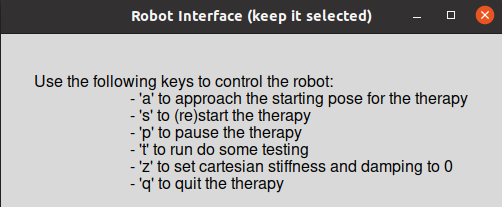
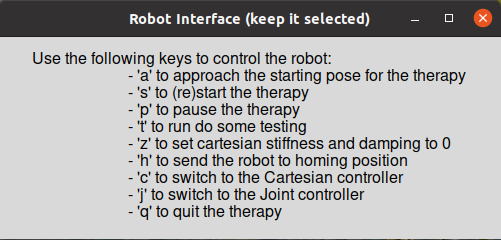
update docs
Still not migrating to ROS package.

diff --git a/scripts/experiment_parameters.py b/scripts/experiment_parameters.py
@@ -11,7 +11,7 @@ from scipy.spatial.transform import Rotation as R
 
 #-------------------------------------------------------------------------
 # choose which experiment to perform
-experiment = 2      # 1: Passive human subject (strain map is only position-dependent)
+experiment = 1      # 1: Passive human subject (strain map is only position-dependent)
                     # 2: Active human subject (strain maps change with muscle activation)
                     # 3: tuning of the cost function weights, in simulation, for experiment #1
                     # 4: execution of A* planning in the same conditions as experiment 3

diff --git a/README.md b/README.md
@@ -40,24 +40,31 @@ Our approach is presented in detail in:
 
 ## Features
 When rehabilitating from rotator cuff tears, physiotherapy aims at gaining a large range of motion while avoiding injuries to the healing tendon(s). A robot that interacts with patients at this stage needs to have insights into the inner functioning of the human tissues. Our innovation consists in considering a [state-of-the-art biomechanical model of the human shoulder](https://simtk.org/projects/scapulothoracic) to extract:
+- _muscle activations_ during physical human-robot interaction (through a model-based [rapid muscle redundancy solver](https://journals.plos.org/plosone/article?id=10.1371/journal.pone.0295003));
 - _strain maps_, which give insights into how tendons are elongated during the rehabilitation movement (as a consequence of the position of the patient, and of the activation in the corresponding muscles);
 - _skeletal dynamics_, capturing the way in which the human position evolves as a function of torques applied to the human model.
 
-These two elements are combined in an optimal control problem that can be solved efficiently in 0.12 s over a time horizon of 1 s divided into 10 steps.
+These elements are combined in an optimal control problem that can be solved efficiently in 0.12 s over a time horizon of 1 s divided into 10 steps.
 
-We exploit a customized version of OpenSimAD that allows us to retrieve a differentiable expression for the dynamics of the original OpenSim model, and can be natively interfaced with CasADi.
+To efficiently consider human skeletal dynamics, we exploit a [customized version](https://github.com/itbellix/opensimAD) of [OpenSimAD](https://github.com/antoinefalisse/opensimAD) that allows us to retrieve a differentiable expression for the dynamics of the original OpenSim model, and can be natively interfaced with [CasADi](https://web.casadi.org/).
 
 ## Requirements
-In order to run `BATON` you will need:
-- an OpenSimAD Conda environment to run the biomechanics-aware optimizations. This can be set up following the instructions at https://github.com/antoinefalisse/opensimAD;
+Our code has been tested on Ubuntu 20.04.
+
+In order to run BATON you will need:
+- an OpenSimAD Conda environment to retrieve your differentiable OpenSim model. This can be set up following the instructions at https://github.com/antoinefalisse/opensimAD
+- OpenSim itself, available either through the official [Conda Package](https://opensimconfluence.atlassian.net/wiki/spaces/OpenSim/pages/53116061/Conda+Package) or (preferably) a [local build](https://github.com/opensim-org/opensim-core/blob/main/scripts/build/opensim-core-linux-build-script.sh)
 - a ROS distribution (we tested our code with [ROS Noetic](http://wiki.ros.org/noetic));
-- a working version of our `iiwa-ros` repository, implementing the impedance controller for the KUKA LBR iiwa collaborative robotic arm that we used in our experiments. Please refer to https://gitlab.tudelft.nl/kuka-iiwa-7-cor-lab/iiwa_ros for obtaining and building it correctly. Note that this repository has quite a few dependency, so make sure to follow the [instalation instructions](https://gitlab.tudelft.nl/kuka-iiwa-7-cor-lab/iiwa_ros/-/blob/main/README.md).
+- a working version of our [`iiwa-impedance-control`](https://gitlab.tudelft.nl/nickymol/iiwa_impedance_control) package, implementing the impedance controller for the KUKA LBR iiwa collaborative robotic arm that we used in our experiments. Please refer to the project page for obtaining and building it correctly. Note that this repository has quite a few dependency, so make sure to follow the [set-up instructions](https://gitlab.tudelft.nl/nickymol/iiwa_impedance_control/-/tree/set_up_instructions?ref_type=heads).
+
+
+In terms of sensing hardware, we used the force/torque sensor Bota SenseONE to monitor contact wrenches between the human and the Kuka robot.
 
 ## Structure
 Our code is organized as follows:
-- [`Code`](https://github.com/itbellix/baton-robotic-rehab/tree/main/Code): this folder contains the code that you can run to explore the functionalities of `BATON` and reproduce its results, in simulation and on the Kuka robot (if you have previously installed the `iiwa-ros` repository). In particular:
-    - `launch` contains the launch files that start the ROS master and take care of bringing up the impedance controller modules, together with Gazebo for simulation
-    - `Python` contains the Python scripts specific to run `BATON` and reproduce our figures
+
+- [`launch`](https://github.com/itbellix/baton-robotic-rehab/tree/main/launch) contains the launch file to start the ROS master and take care of bringing up the impedance controller modules, or Gazebo for simulation;
+- [`scripts`](https://github.com/itbellix/baton-robotic-rehab/tree/main/scripts) contains the Python scripts specific to run the various modules of `BATON` and reproduce our figures
 
 - [`Musculoskeletal Models`](<https://github.com/itbellix/baton-robotic-rehab/tree/main/Musculoskeletal Models>): this folder contains the OpenSim models that we used with `BATON`. In particular, a reduced-order version of the [`thoracoscapular shoulder model`](https://simtk.org/projects/scapulothoracic) is considered, capturing the mobility of the glenohumeral joint and the musculo-tendon units spanning the joint.
 
@@ -65,25 +72,31 @@ Further explanations are provided inside each folder.
 
 
 ## Brief guide to our code
-In order to run our code, you will need 3 different terminals (let's call them _terminal-1_, _terminal-2_ and _terminal-3_). On all of them, navigate to your local version of this repository, and source your ROS distribution, and the `iiwa-ros` (as `$ $PATH-to-iiwa$/iiwa_ros/devel/setup.bash`). Then, assuming that you are running things in simulation:
-- on _terminal-1_: run `roslaunch Code/launch/controller.launch simulation:=true`
-- on _terminal-2_: run `python Code/Python/robot_control.py --simulation=true`
-on _terminal-2_: 
-  1. activate the OpenSimAD Conda environment
-  2. run `python Code/Python/TO_main.py --simulation=true`
+In order to run our code, you will need 4 different terminals (I choose to keep things separate, but a ROS package + launchfile would be cleaner). 
+On all of them, navigate to your local version of this repository, and source your ROS distribution, and the catkin workspace containing `iiwa-impedance-control`. Then, assuming that you are running things in simulation:
+- on _terminal-1_: run `roslaunch Code/launch/bringup.launch simulation:=true`
+
+- then, on the other terminals, activate a virtual environment created on the basis of the [requirements.txt](https://github.com/itbellix/baton-robotic-rehab/blob/main/requirements.txt), and then:
+  - on _terminal-2_: run `python Code/scripts/robot_control.py --simulation=true`
+  - on _terminal-3_: run `python Code/scripts/TO_main.py --simulation=true`
+  - on _terminal-3_: run `python estimate_muscle_activation.py --simulation=true`
+
 
 If everything was installed correctly, you will see the Gazebo environment with the Kuka robot, and you should be prompted with a selection menu as below:
 
 <img src="Media/selection_menu.png" height="150" />
 
 Then, you can input `a` so that the robot moves to the starting position for the therapy.
-Once the position has been reached, you will see a strain map being brought up on the screen, and you will be able to input `s` so that the simulated experiment can start. By default, experiment 1 will be executed (where we assume position-dependent strains in the rotator cuff tendons).
+Once the position has been reached, you will see a strain map being brought up on the screen, and you will be able to input `s` so that the simulated experiment can start. By default, experiment 1 will be executed (where we assume position-dependent strains in the rotator cuff tendons). This can be changed in `scripts/experimental_parameters.py`.
 
 Overall, the windows that you will see should look like, displaying the generation of rehabilitation trajectories that minimize the strain on the rotator cuff tendons:
 
 <img src="Media/display_baton_sim.png" height="200" />
 
 ### Trouble-shooting
+- **Slow execution**: note that running everything on one machine can be quite slow. For this, in our experiments we employed an external workstation to run the robot controller (_terminal-1_ above), and to run a `rqt` GUI for visualization of contact wrenches and estimated muscle activations. Then, a normal laptop was used to run the rest of the scripts. Communication between the two machines and the robot was established with a Netgear switch.
+
+
 If you encounter any troubles or issues with running the code contained in this repository, feel free to open an issue and report it. We will do our best to help you!
 
 ## License
@@ -96,4 +109,4 @@ Prof. Dr. Ir. Fred van Keulen, Dean of Faculty of Mechanical, Maritime and Mater
 ```
 
 ## Contributors
-Italo Belli
+Italo Belli, Florian van Melis
